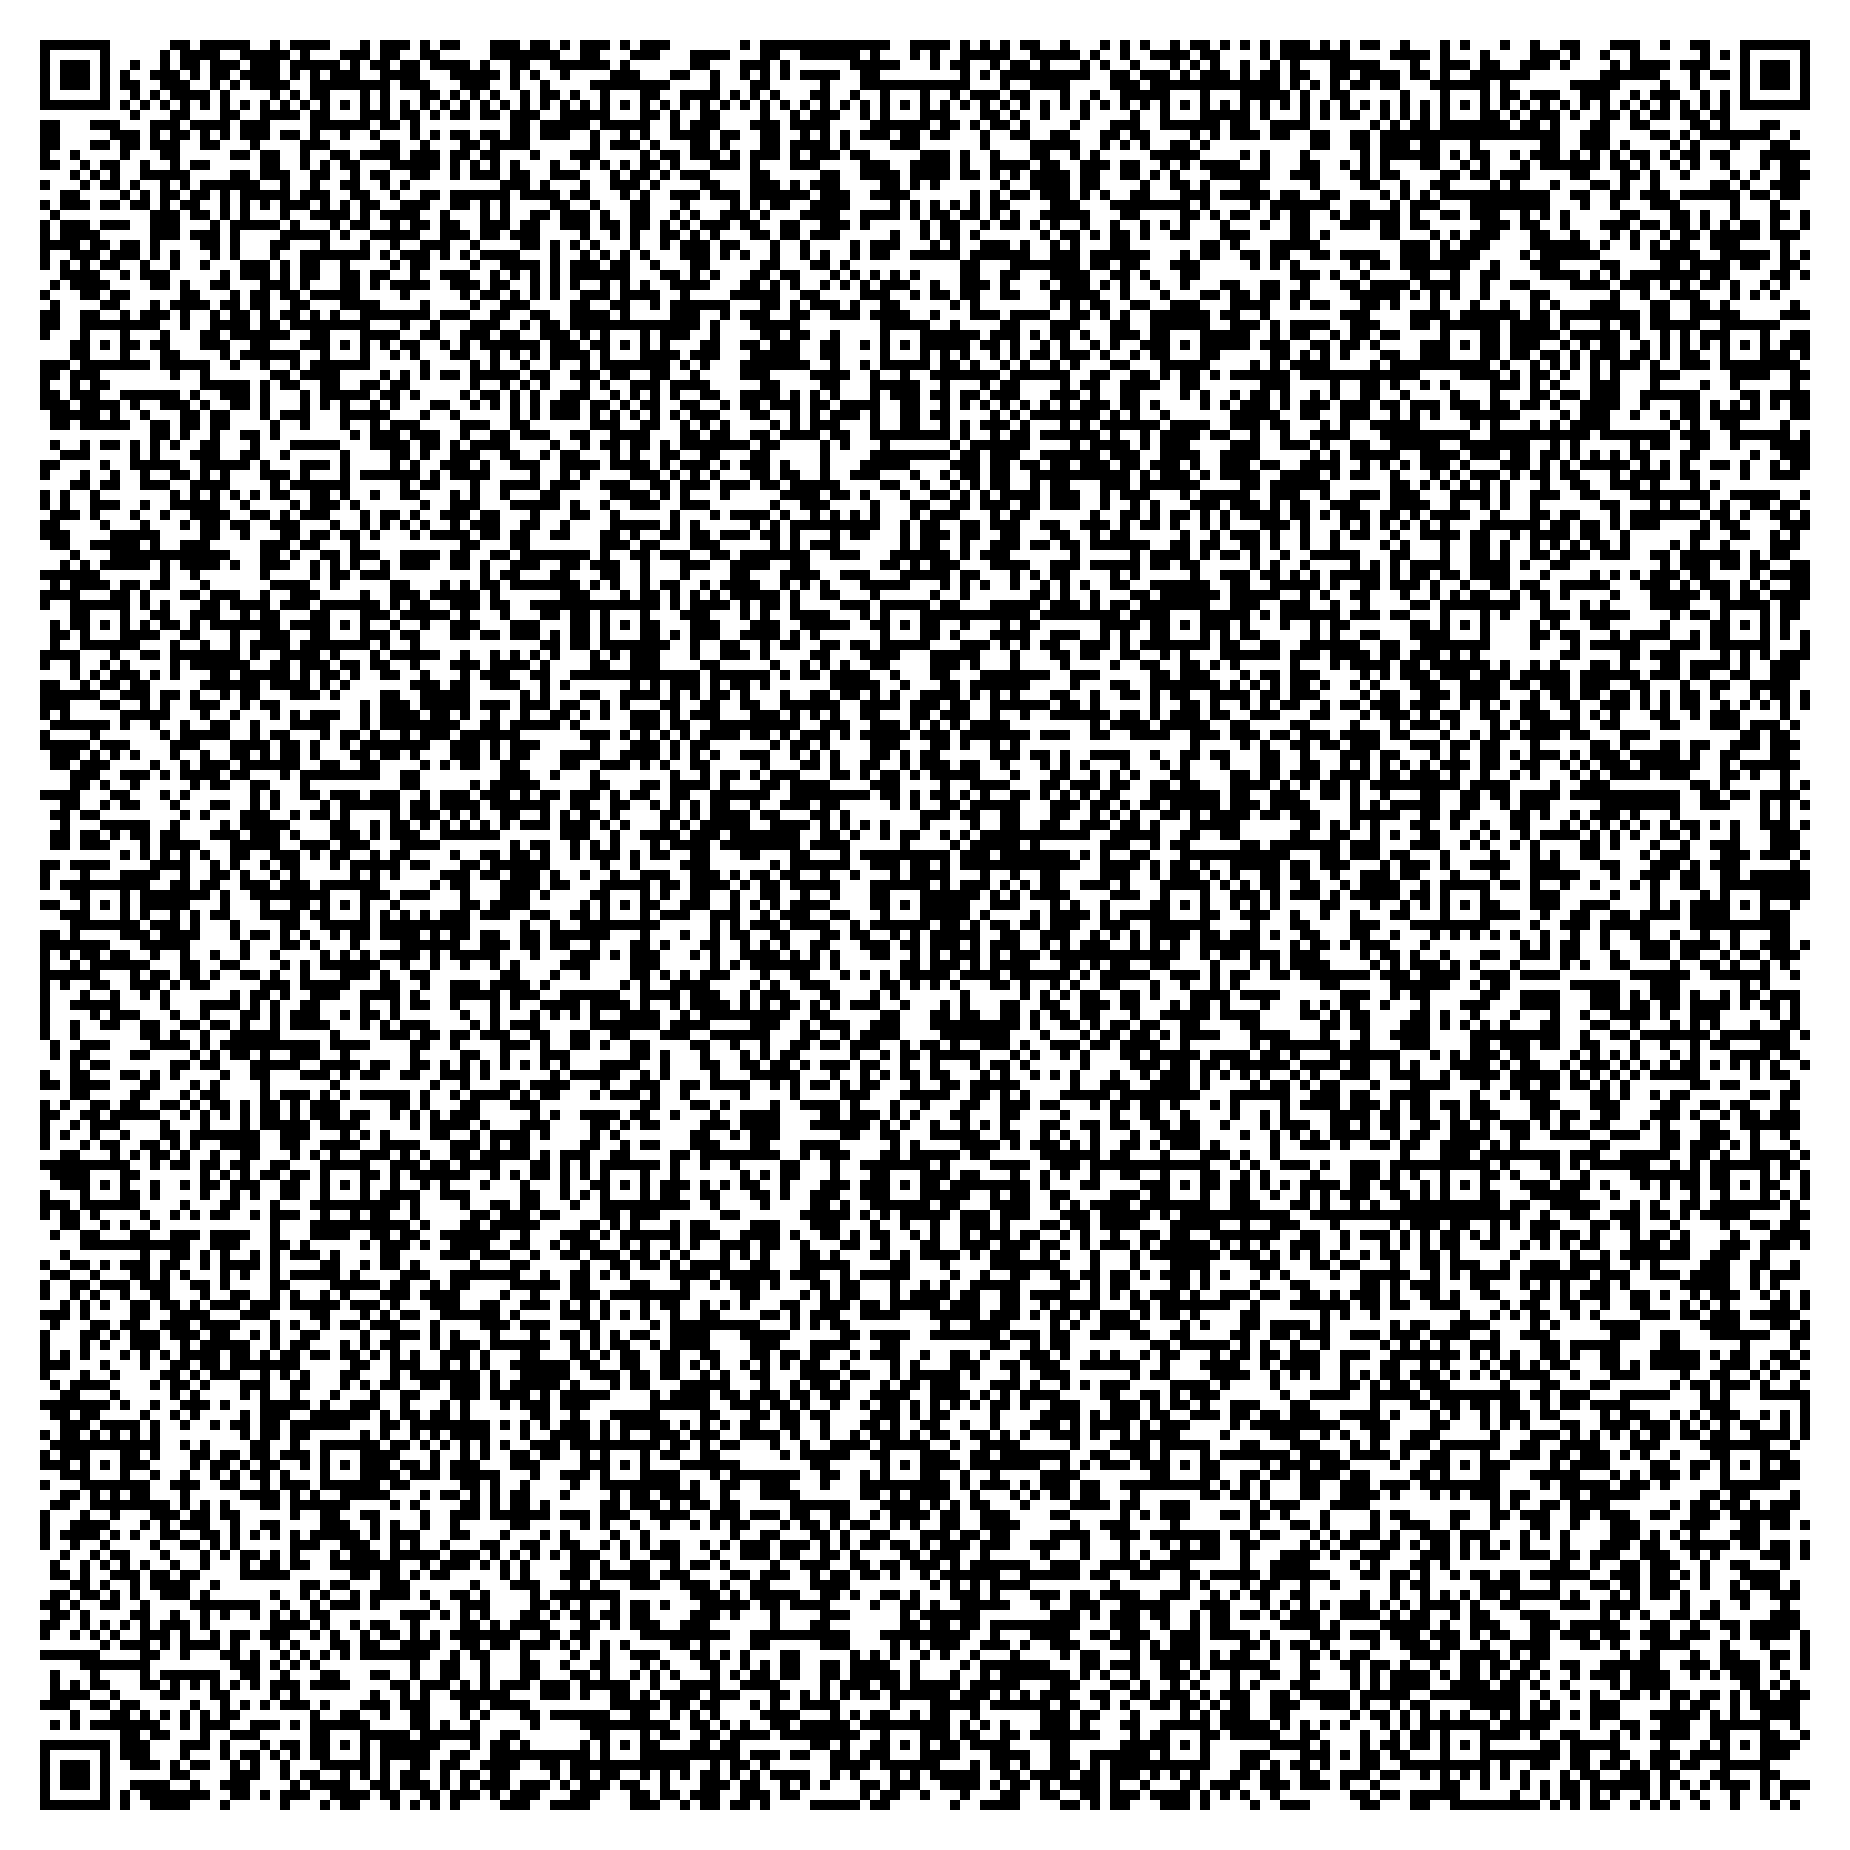
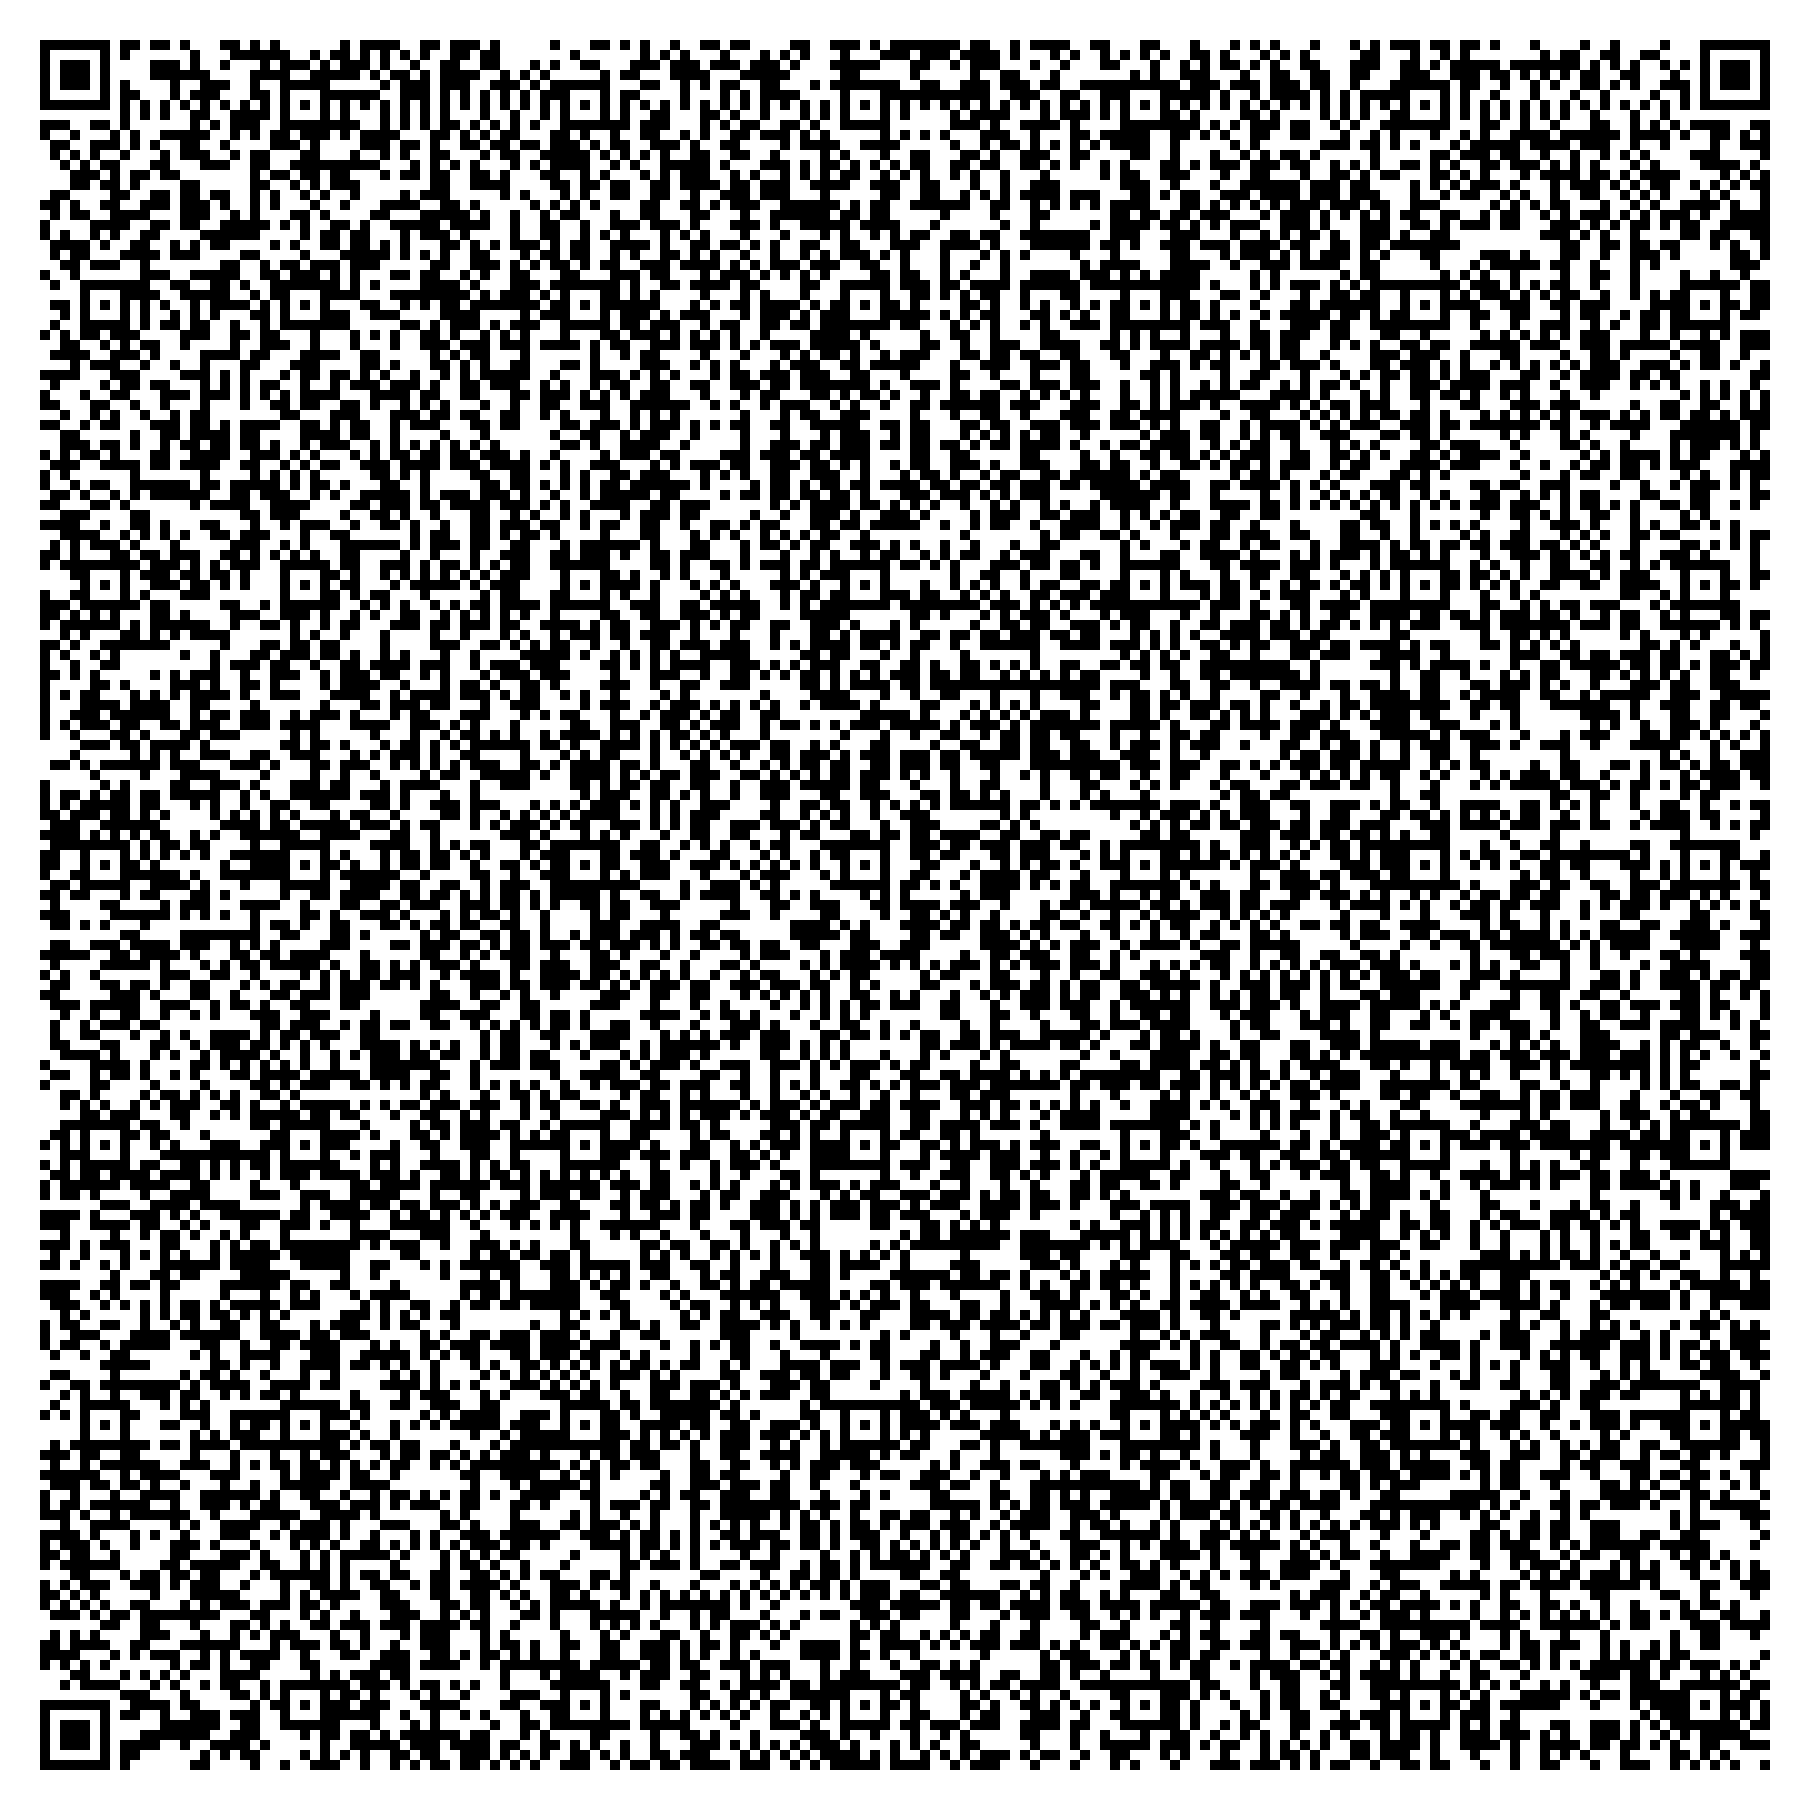
Remove html tags to shave more bytes of minified html

diff --git a/aggresive-minified-version/MINIFIED-BACKDOOMS.html b/aggresive-minified-version/MINIFIED-BACKDOOMS.html
@@ -1,1 +1,1 @@
-<!DOCTYPE html><html><head><meta charset="utf-8"><style>body{margin:0;overflow:hidden;background:#000;cursor:crosshair}canvas{width:100vw;height:100vh}</style></head><body><canvas id=c></canvas><script>with(Math){c=document.getElementById("c"),c.width=320,c.height=240,h=c.getContext("2d"),x=4,y=4,a=0,H=100,am=25,rc=0,fl=0,SEED=random()*100,f=(i,j)=>(abs(i-4)<4&&abs(j-4)<4)?0:((i+1e3)%7==3||(j+1e3)%7==3)?0:(n=cos(i*12.9898+j*78.233+SEED)*43758.5453,n-=n|0,n<.05?1:0),e=[{x:5,y:4,h:100},{x:4,y:5,h:100}],k={};onkeydown=e=>k[e.key]=1,onkeyup=e=>k[e.key]=0,onclick=_=>{if(am){am--,fl=2,rc=.2,e.forEach(o=>{let d=hypot(o.x-x,o.y-y),r=atan2(o.y-y,o.x-x);d<5&&abs(r-a)<.3&&(o.h-=50)})}};R=_=>{rc=rc>.02?rc-.02:0,fl&&fl--,e=e.filter(o=>o.h>0),h.fillStyle="#000",h.fillRect(0,0,320,240),k.ArrowLeft&&(a-=.1),k.ArrowRight&&(a+=.1),m=.1,(k.ArrowUp||k.w)&&(nx=x+cos(a)*m,ny=y+sin(a)*m,f(floor(nx),floor(ny))!=1&&(x=nx,y=ny)),(k.ArrowDown||k.s)&&(nx=x-cos(a)*m,ny=y-sin(a)*m,f(floor(nx),floor(ny))!=1&&(x=nx,y=ny)),(k.ArrowUp||k.w||k.ArrowDown||k.s||k.ArrowLeft||k.ArrowRight)&&e.length<10&&random()<.01&&(t=random()*6.283,d=1+random(),X=x+cos(t)*d,Y=y+sin(t)*d,f(floor(X),floor(Y))==0&&e.push({x:X,y:Y,h:100})),random()<.005&&am<25&&am++,e.forEach(o=>{let d=hypot(dx=x-o.x,dy=y-o.y);d>.2&&(o.x+=dx/d*.0015,o.y+=dy/d*.0015,f(floor(o.x),floor(o.y))!=1||0),d<.5&&(H--,fl=2)});let w=[];for(i=0;i<320;i++){r=a+atan((i-160)/160),dx=cos(r),dy=sin(r),ix=floor(x),iy=floor(y),ddx=dx?abs(1/dx):1e30,ddy=dy?abs(1/dy):1e30,sx=dx<0?-1:1,sy=dy<0?-1:1,tmx=dx<0?(x-ix)*ddx:(ix+1-x)*ddx,tmy=dy<0?(y-iy)*ddy:(iy+1-y)*ddy,d=0;for(;;){if(tmx<tmy)ix+=sx,d=tmx,tmx+=ddx;else iy+=sy,d=tmy,tmy+=ddy;if(d>20||f(ix,iy)==1)break}d*=cos(r-a),w[i]=d,h2=min(240,240/d),g=min(255,200/d)|0,h.fillStyle=`rgb(${g},${g},${g})`,h.fillRect(i,120-h2/2+rc*20,1,h2)}e.forEach(o=>{d=hypot(o.x-x,o.y-y),r=atan2(o.y-y,o.x-x)-a;if(abs(r)<1.2){sz=80/d,px=160+r*160;px>=0&&px<320&&d<w[px|0]*1.1&&(h.fillStyle=o.h>50?"#400":"#800",h.fillRect(px-sz/2,120-sz/2+rc*20,sz,sz*1.5),h.fillStyle="#f00",h.fillRect(px-sz/4,120-sz/2+rc*20,sz/8,sz/4),h.fillRect(px+sz/4,120-sz/2+rc*20,sz/8,sz/4))}}),fl&&(h.fillStyle="#FFA500",h.fillRect(140,160+rc*20,40,20)),h.fillStyle="#f00",h.fillRect(10,10,H,10),h.fillStyle="#ff0",h.fillRect(10,25,am*4,5),h.fillStyle="#fff",h.font="7px Arial",h.fillText("HP",10,7),h.fillText("AMMO:"+am,10,28),h.textAlign="right",h.fillText("<3 KM",315,235),h.textAlign="left",H>0?requestAnimationFrame(R):(h.fillStyle="#f00",h.font="20px Arial",h.textAlign="center",h.fillText("GAME OVER",160,120))};R()}</script></body></html>
+<style>body{margin:0;overflow:hidden;background:#000;cursor:crosshair}canvas{width:100vw;height:100vh}</style><canvas id=c></canvas><script>with(Math){c=document.getElementById("c"),c.width=320,c.height=240,h=c.getContext("2d"),x=4,y=4,a=0,H=100,am=25,rc=0,fl=0,SEED=random()*100,f=(i,j)=>(abs(i-4)<4&&abs(j-4)<4)?0:((i+1e3)%7==3||(j+1e3)%7==3)?0:(n=cos(i*12.9898+j*78.233+SEED)*43758.5453,n-=n|0,n<.05?1:0),e=[{x:5,y:4,h:100},{x:4,y:5,h:100}],k={};onkeydown=e=>k[e.key]=1,onkeyup=e=>k[e.key]=0,onclick=_=>{if(am){am--,fl=2,rc=.2,e.forEach(o=>{let d=hypot(o.x-x,o.y-y),r=atan2(o.y-y,o.x-x);d<5&&abs(r-a)<.3&&(o.h-=50)})}};R=_=>{rc=rc>.02?rc-.02:0,fl&&fl--,e=e.filter(o=>o.h>0),h.fillStyle="#000",h.fillRect(0,0,320,240),k.ArrowLeft&&(a-=.1),k.ArrowRight&&(a+=.1),m=.1,(k.ArrowUp||k.w)&&(nx=x+cos(a)*m,ny=y+sin(a)*m,f(floor(nx),floor(ny))!=1&&(x=nx,y=ny)),(k.ArrowDown||k.s)&&(nx=x-cos(a)*m,ny=y-sin(a)*m,f(floor(nx),floor(ny))!=1&&(x=nx,y=ny)),(k.ArrowUp||k.w||k.ArrowDown||k.s||k.ArrowLeft||k.ArrowRight)&&e.length<10&&random()<.01&&(t=random()*6.283,d=1+random(),X=x+cos(t)*d,Y=y+sin(t)*d,f(floor(X),floor(Y))==0&&e.push({x:X,y:Y,h:100})),random()<.005&&am<25&&am++,e.forEach(o=>{let d=hypot(dx=x-o.x,dy=y-o.y);d>.2&&(o.x+=dx/d*.0015,o.y+=dy/d*.0015,f(floor(o.x),floor(o.y))!=1||0),d<.5&&(H--,fl=2)});let w=[];for(i=0;i<320;i++){r=a+atan((i-160)/160),dx=cos(r),dy=sin(r),ix=floor(x),iy=floor(y),ddx=dx?abs(1/dx):1e30,ddy=dy?abs(1/dy):1e30,sx=dx<0?-1:1,sy=dy<0?-1:1,tmx=dx<0?(x-ix)*ddx:(ix+1-x)*ddx,tmy=dy<0?(y-iy)*ddy:(iy+1-y)*ddy,d=0;for(;;){if(tmx<tmy)ix+=sx,d=tmx,tmx+=ddx;else iy+=sy,d=tmy,tmy+=ddy;if(d>20||f(ix,iy)==1)break}d*=cos(r-a),w[i]=d,h2=min(240,240/d),g=min(255,200/d)|0,h.fillStyle=`rgb(${g},${g},${g})`,h.fillRect(i,120-h2/2+rc*20,1,h2)}e.forEach(o=>{d=hypot(o.x-x,o.y-y),r=atan2(o.y-y,o.x-x)-a;if(abs(r)<1.2){sz=80/d,px=160+r*160;px>=0&&px<320&&d<w[px|0]*1.1&&(h.fillStyle=o.h>50?"#400":"#800",h.fillRect(px-sz/2,120-sz/2+rc*20,sz,sz*1.5),h.fillStyle="#f00",h.fillRect(px-sz/4,120-sz/2+rc*20,sz/8,sz/4),h.fillRect(px+sz/4,120-sz/2+rc*20,sz/8,sz/4))}}),fl&&(h.fillStyle="#FFA500",h.fillRect(140,160+rc*20,40,20)),h.fillStyle="#f00",h.fillRect(10,10,H,10),h.fillStyle="#ff0",h.fillRect(10,25,am*4,5),h.fillStyle="#fff",h.font="7px Arial",h.fillText("HP",10,7),h.fillText("AMMO:"+am,10,28),h.textAlign="right",h.fillText("<3 KM",315,235),h.textAlign="left",H>0?requestAnimationFrame(R):(h.fillStyle="#f00",h.font="20px Arial",h.textAlign="center",h.fillText("GAME OVER",160,120))};R()}</script>

diff --git a/QRGEN.py b/QRGEN.py
@@ -9,14 +9,14 @@ import qrcode
 
 # Modified wrapper template to use gzip decompression instead of deflate
 WRAPPER_TEMPLATE = (
-    '<!DOCTYPE html><html><head><meta charset="utf-8"><title>Game</title></head>'
-    '<body><script>(async function(){{'
+    '<title>Game</title>'
+    '<script>(async function(){{'
     'const c = Uint8Array.from(atob("{b64}"), c => c.charCodeAt(0));'
     'const ds = new DecompressionStream("gzip");'  # Changed to gzip
     'const d = new Response(c).body.pipeThrough(ds);'
     'const t = await new Response(d).text();'
     'document.open();document.write(t);document.close();'
-    '}})();</script></body></html>'
+    '}})();</script>'
 )
 
 def main():
@@ -52,6 +52,10 @@ def main():
     # Create a data URI from the self-extracting HTML
     data_uri = "data:text/html;base64," + base64.b64encode(final_html.encode('utf-8')).decode('ascii')
 
+    print(data_uri)
+    # print(qrcode.constants.ERROR_CORRECT_L)
+    # sys.exit(1)
+
     # Generate the QR code from the data URI
     qr = qrcode.QRCode(
         version=None,
@@ -65,7 +69,13 @@ def main():
     except ValueError as e:
         print("Warning: fitting QR code failed with error:", e)
         print("Forcing version 40 and using fit=False")
-        qr.version = 40
+        qr = qrcode.QRCode(
+            version=40,
+            error_correction=qrcode.constants.ERROR_CORRECT_L,
+            box_size=10,
+            border=4,
+        )
+        qr.add_data(data_uri)
         qr.make(fit=False)
 
     img = qr.make_image(fill_color="black", back_color="white")
